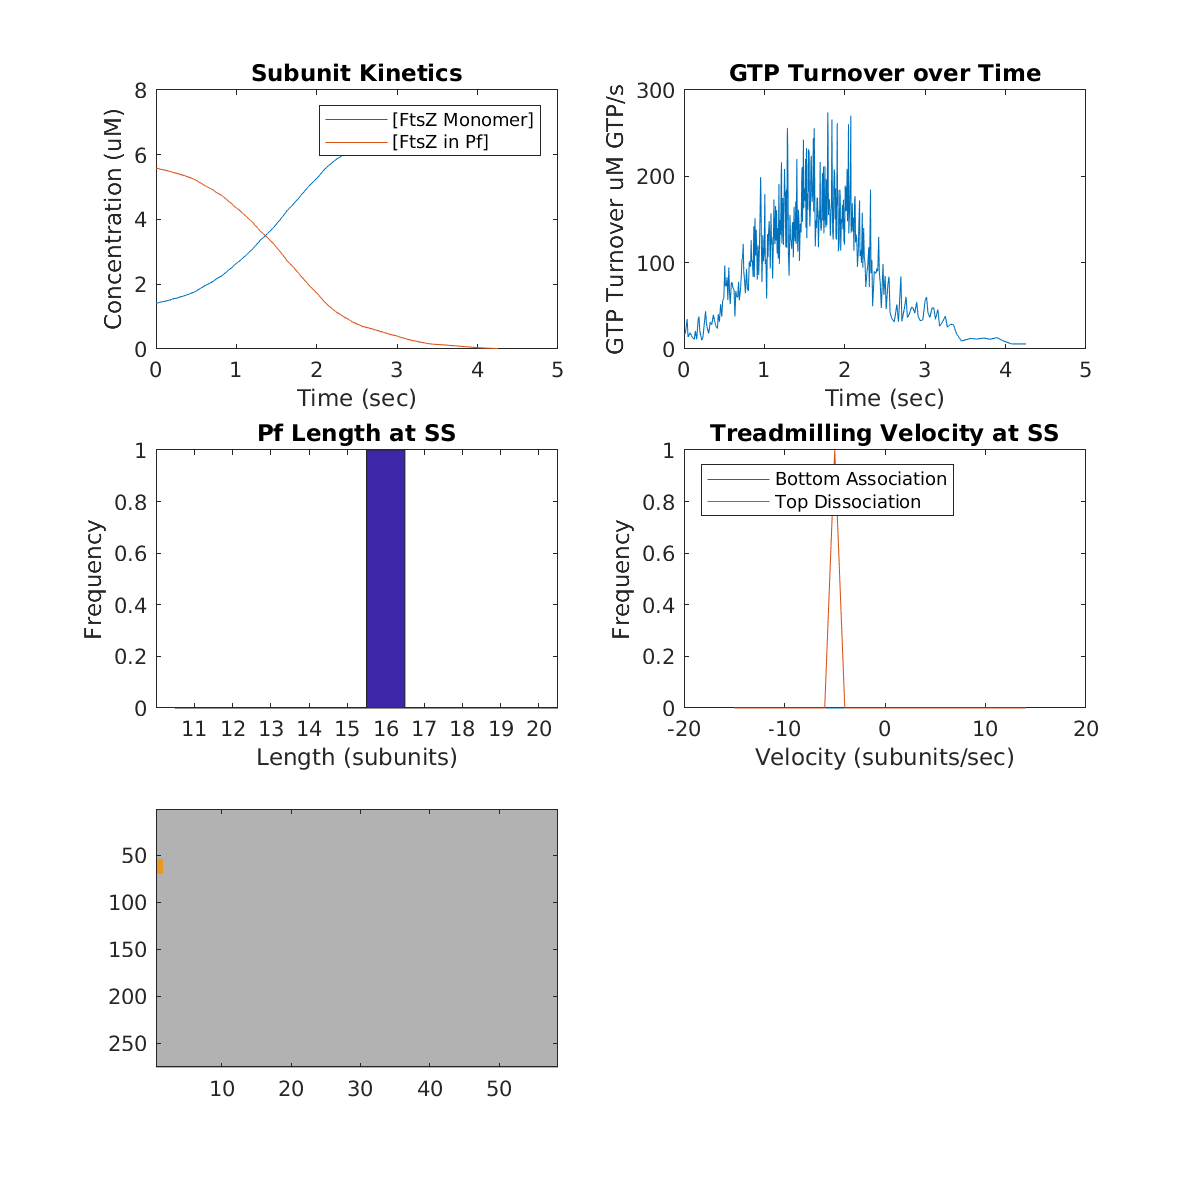
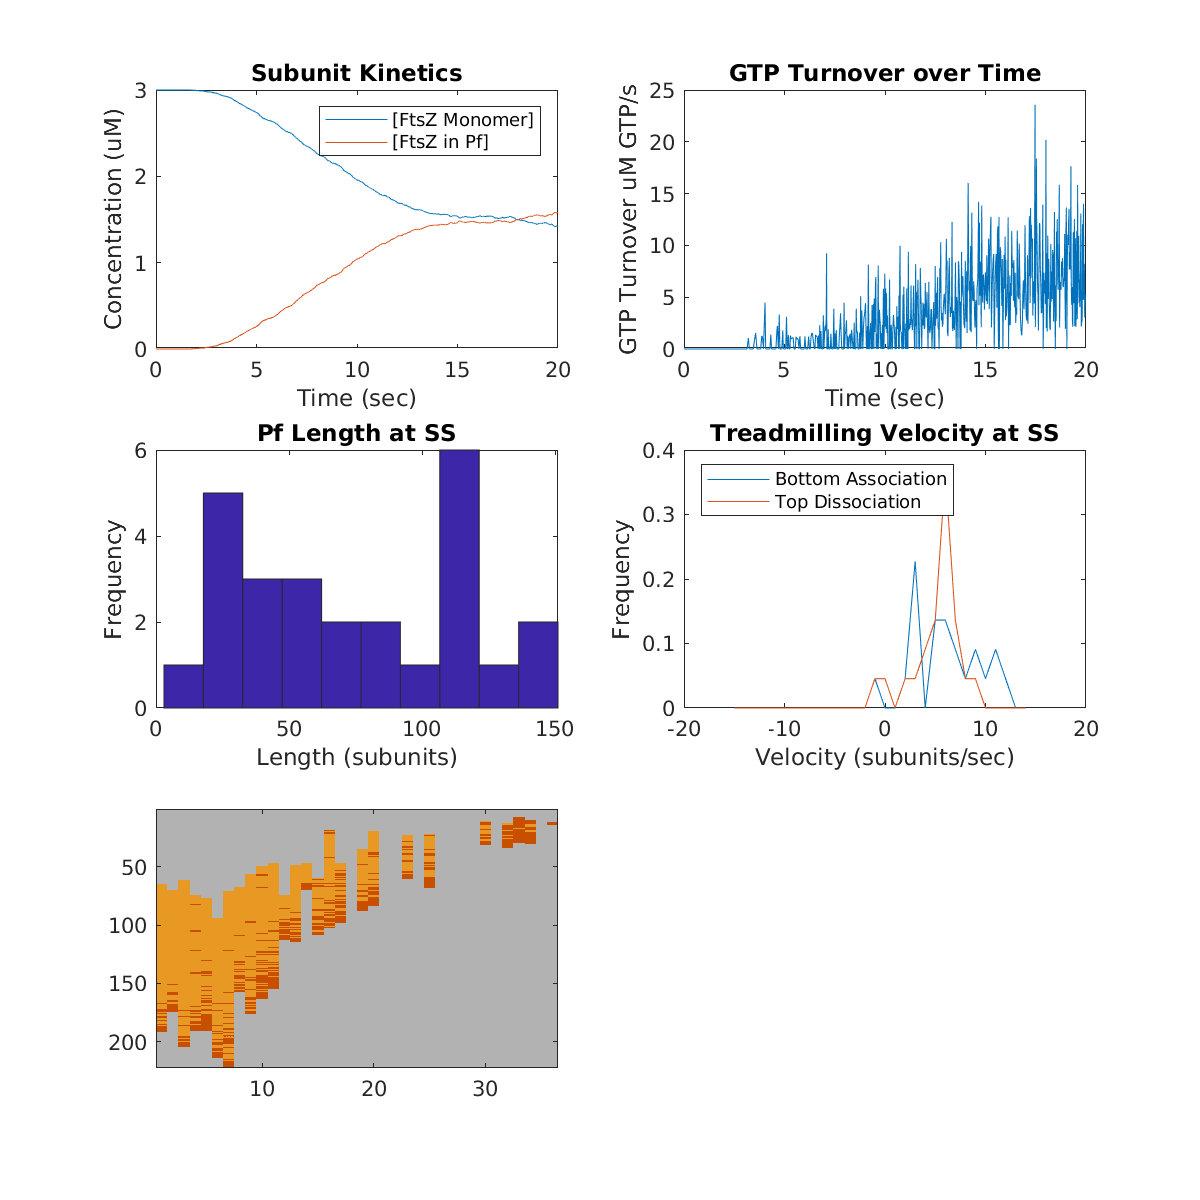
Updated app layout to resize nicely with different monitor dimensions

diff --git a/lib/export/output/resultsTable.html b/lib/export/output/resultsTable.html
@@ -5,22 +5,22 @@
 	</tr>
 	<tr>
 		<td>[Monomer]</td>
-		<td>6.9697</td>
+		<td>1.4198</td>
 	</tr>
 	<tr>
 		<td>Hydrolysis</td>
-		<td>73.094</td>
+		<td>5.2452</td>
 	</tr>
 	<tr>
 		<td>PF Length</td>
-		<td>16</td>
+		<td>73.4615</td>
 	</tr>
 	<tr>
 		<td>Treadmill Velocity</td>
-		<td>-33.6747</td>
+		<td>5.9354</td>
 	</tr>
 	<tr>
 		<td>Proportion GTP in PF</td>
-		<td>0</td>
+		<td>22.4607</td>
 	</tr>
 </table>

diff --git a/lib/export/output/parametersTable1.html b/lib/export/output/parametersTable1.html
@@ -9,7 +9,7 @@
 	</tr>
 	<tr>
 		<td>[FtsZ]</td>
-		<td>7</td>
+		<td>3</td>
 	</tr>
 	<tr>
 		<td>FRET Experiment?</td>
@@ -31,7 +31,7 @@
 	</tr>
 	<tr>
 		<td>GTP Hydrolysis</td>
-		<td>0.5</td>
+		<td>0.4</td>
 	</tr>
 	<tr>
 		<td>Affinity Switch</td>

diff --git a/lib/export/output/parametersTable2.html b/lib/export/output/parametersTable2.html
@@ -15,7 +15,7 @@
 	</tr>
 	<tr>
 		<td>Top Off</td>
-		<td>6</td>
+		<td>7.5</td>
 		<td>0.8</td>
 	</tr>
 	<tr>

diff --git a/lib/app/formatApp.m b/lib/app/formatApp.m
@@ -3,11 +3,11 @@ function app = formatApp(app)
   darkGreen = [53 161 19]./255;
   gray = [50 50 50]./255;
 
-  app.Figure = figure('MenuBar','none','NumberTitle','off','Name','Treadmilling Experiment','Units','pixels','Position',[100, 100, 2000, 1500]);
+  app.Figure = figure('MenuBar','none','NumberTitle','off','Name','Treadmilling Experiment','Units','pixels','Position',[100, 100, 1500, 900]);
   im = imread('ftszDiagram.png');
 
-  %% Model Panel Component
-  app.ModelPanel = uipanel('Parent',app.Figure,'Title','Configure Kinetics','FontSize',14, 'Units', 'pixels', 'Position',[20, 250, 460, 460],'BackgroundColor','w');
+  %% Model Panel Component [2000, 2000, 1500, 1500] [20, 250, 460, 460]
+  app.ModelPanel = uipanel('Parent',app.Figure,'Title','Configure Kinetics','FontSize',14, 'Units', 'normalized', 'Position', [0.02 0.18 0.47 0.8],'BackgroundColor','w');
   % Model Diagram
   app.ModelDiagramAxes = axes('Parent',app.ModelPanel, 'Units', 'normalized', 'Position', [0, 0, 1, 1]);
 
@@ -26,60 +26,27 @@ function app = formatApp(app)
   horFontDisplace = 0;
   
   %%% bottom 
-  leftAlign = 0.05;
-  bottomAlign = 0.15;
-  app.KbOnGtpInput = uicontrol('Parent',app.ModelPanel,'Style','edit','String',app.Kinetics.kbongtp,'Units','normalized','Position',[leftAlign bottomAlign inputWidth height]);
-  text(app.ModelDiagramAxes,'String','\muM^-^1s^-^1','Interpreter','tex','HorizontalAlignment', 'left','VerticalAlignment', 'bottom','Units','normalized','Position',[leftAlign+inputWidth bottomAlign]);
 
-  app.KbOffGtpInput = uicontrol('Parent',app.ModelPanel,'Style','edit','String',app.Kinetics.kboffgtp,'Units','normalized','Position',[leftAlign+rightoffset bottomAlign-loweroffset inputWidth height]);
-  text(app.ModelDiagramAxes,'String','s^-^1','Interpreter','tex','Units','normalized','HorizontalAlignment',  'left','VerticalAlignment', 'bottom','Position',[leftAlign+rightoffset+inputWidth bottomAlign-loweroffset]);
+  addKinetic(app, 'kbongtp', [0.01, 0.14], 2);
+  addKinetic(app, 'kboffgtp', [0.18, 0.08], 1);
 
-
-  leftAlign = 0.5;
-  bottomAlign = 0.15;
-  app.KbOnGdpInput = uicontrol('Parent',app.ModelPanel,'Style','edit','String',app.Kinetics.kbongdp,'Units','normalized','Position',[leftAlign bottomAlign inputWidth height]);
-  text(app.ModelDiagramAxes,'String','\muM^-^1s^-^1','Interpreter','tex','HorizontalAlignment', 'left','VerticalAlignment', 'bottom','Units','normalized','Position',[leftAlign+inputWidth bottomAlign]);
-
-  app.KbOffGdpInput = uicontrol('Parent',app.ModelPanel,'Style','edit','String',app.Kinetics.kboffgdp,'Units','normalized','Position',[leftAlign+rightoffset bottomAlign-loweroffset inputWidth height]);
-  text(app.ModelDiagramAxes,'String','s^-^1','Interpreter','tex','HorizontalAlignment', 'left','VerticalAlignment', 'bottom','Units','normalized','Position',[leftAlign+rightoffset+inputWidth bottomAlign-loweroffset]);
+  addKinetic(app, 'kbongdp', [0.45, 0.14], 2);
+  addKinetic(app, 'kboffgdp', [0.62, 0.08], 1);
 
 
-  leftAlign = 0.6;
-  bottomAlign = 0.65;
-  app.KtOnInput = uicontrol('Parent',app.ModelPanel,'Style','edit','String',app.Kinetics.ktongdp,'Units','normalized','Position',[leftAlign bottomAlign inputWidth height]);
-  text(app.ModelDiagramAxes,'String','\muM^-^1s^-^1','Interpreter','tex','HorizontalAlignment', 'left','VerticalAlignment', 'bottom','Units','normalized','Position',[leftAlign+inputWidth bottomAlign]);
+  addKinetic(app, 'ktongdp', [0.57, 0.65], 2);
+  addKinetic(app, 'ktoffgdp', [0.74, 0.59], 1);
 
-  app.KtOffInput = uicontrol('Parent',app.ModelPanel,'Style','edit','String',app.Kinetics.ktoffgdp,'Units','normalized','Position',[leftAlign+rightoffset bottomAlign-loweroffset inputWidth height]);
-  text(app.ModelDiagramAxes,'String','s^-^1','Interpreter','tex','Units','normalized','HorizontalAlignment', 'left','VerticalAlignment', 'bottom','Position',[leftAlign+rightoffset+inputWidth bottomAlign-loweroffset]);
+  addKinetic(app, 'ktongtp', [0.15, 0.65], 2);
+  addKinetic(app, 'ktoffgtp', [0.32, 0.59], 1);
 
 
-
-  leftAlign = 0.2;
-  bottomAlign = 0.65;
-  app.KtLowOnInput = uicontrol('Parent',app.ModelPanel,'Style','edit','String',app.Kinetics.ktongtp,'Units','normalized','Position',[leftAlign bottomAlign inputWidth height]);
-  text(app.ModelDiagramAxes,'String','\muM^-^1s^-^1','Interpreter','tex','HorizontalAlignment', 'left','VerticalAlignment', 'bottom','Units','normalized','Position',[leftAlign+inputWidth bottomAlign]);
-
-  app.KtLowOffInput = uicontrol('Parent',app.ModelPanel,'Style','edit','String',app.Kinetics.ktoffgtp,'Units','normalized','Position',[leftAlign+rightoffset bottomAlign-loweroffset inputWidth height]);
-  text(app.ModelDiagramAxes,'String','s^-^1','Interpreter','tex','Units','normalized','HorizontalAlignment', 'left','VerticalAlignment', 'bottom','Position',[leftAlign+rightoffset+inputWidth bottomAlign-loweroffset]);
+  addKinetic(app, 'kgdpexchange', [0.18, 0.91], 1);
+  addKinetic(app, 'khyd', [0.43, 0.43], 1);
+  addKinetic(app, 'knuc', [0.35, 0.91], 0);
 
 
-
-  leftAlign = 0.35;
-  bottomAlign = 0.93;
-  app.kswitchInput = uicontrol('Parent',app.ModelPanel,'Style','edit','String',app.Kinetics.kswitch,'Units','normalized','Position',[leftAlign bottomAlign inputWidth*2 height]);
-  text(app.ModelDiagramAxes,'String','X','Interpreter','tex','Units','normalized','HorizontalAlignment', 'left','VerticalAlignment', 'bottom','Position',[leftAlign+inputWidth*2 bottomAlign]);
-
-  leftAlign = 0.2;
-  bottomAlign = 0.93;
-  app.kgdpexchangeInput = uicontrol('Parent',app.ModelPanel,'Style','edit','String',app.Kinetics.kgdpexchange,'Units','normalized','Position',[leftAlign bottomAlign inputWidth height]);
-  text(app.ModelDiagramAxes,'String','s^-^1','Interpreter','tex','Units','normalized','HorizontalAlignment', 'left','VerticalAlignment', 'bottom','Position',[leftAlign+inputWidth bottomAlign]);
-
-
-  leftAlign = 0.45;
-  bottomAlign = 0.45;
-  app.GTPaseInput = uicontrol('Parent',app.ModelPanel,'Style','edit','String',app.Kinetics.indGtpaseRate,'Units','normalized','Position',[leftAlign bottomAlign inputWidth height]);
-  text(app.ModelDiagramAxes,'String','s^-^1','Interpreter','tex','Units','normalized','Position',[leftAlign+inputWidth+horFontDisplace bottomAlign+vertFontDisplace]);
-
+  %set(app.ModelPanel, 'Units', 'normalized');
   %% Input Panel Components
   app.InputPanel = uipanel('Parent',app.Figure,'Title','Configure Experiment','FontSize',14,'Position',[0.02 0.02 0.47 0.15],'BackgroundColor','w');
   app.InputAxes = axes('Parent',app.InputPanel,'Units','normalized','Position',[0 0 1 1]);

diff --git a/lib/app/updateKineticsParameters.m b/lib/app/updateKineticsParameters.m
@@ -1,18 +1,18 @@
 function [app] = updateKineticsParameters(app)
-    app.Kinetics.kbongtp = str2double(app.KbOnGtpInput.String);
-    app.Kinetics.kboffgtp = str2double(app.KbOffGtpInput.String);
+    app.Kinetics.kbongtp = str2double(app.kbongtpInput.String);
+    app.Kinetics.kboffgtp = str2double(app.kboffgtpInput.String);
 
-    app.Kinetics.kbongdp = str2double(app.KbOnGdpInput.String);
-    app.Kinetics.kboffgdp = str2double(app.KbOffGdpInput.String);
+    app.Kinetics.kbongdp = str2double(app.kbongdpInput.String);
+    app.Kinetics.kboffgdp = str2double(app.kboffgdpInput.String);
 
-    app.Kinetics.ktongdp = str2double(app.KtOnInput.String);
-    app.Kinetics.ktoffgdp = str2double(app.KtOffInput.String);
-    app.Kinetics.ktongtp = str2double(app.KtLowOnInput.String);
-    app.Kinetics.ktoffgtp = str2double(app.KtLowOffInput.String);
+    app.Kinetics.ktongdp = str2double(app.ktongdpInput.String);
+    app.Kinetics.ktoffgdp = str2double(app.ktoffgdpInput.String);
+    app.Kinetics.ktongtp = str2double(app.ktongtpInput.String);
+    app.Kinetics.ktoffgtp = str2double(app.ktoffgtpInput.String);
     
-    app.Kinetics.kswitch = str2double(app.kswitchInput.String);
+    app.Kinetics.knuc = str2double(app.knucInput.String);
     app.Kinetics.kgdpexchange = str2double(app.kgdpexchangeInput.String);
-    app.Kinetics.indGtpaseRate = str2double(app.GTPaseInput.String);
+    app.Kinetics.khyd = str2double(app.khydInput.String);
 
     app.Parameters.concTotalFtsZ = str2double(app.ConcFtsZInput.String);
     app.Parameters.totalTime = str2double(app.TimeInput.String);

diff --git a/lib/gillespie/determineTau.m b/lib/gillespie/determineTau.m
@@ -60,12 +60,12 @@ function [allProbs, tau, Subunits] = determineTau(Subunits, allPfs, Kinetics);
   num = 6;
   reactant1(num) = totalGTPinPF;
   reactant2(num) = 1;
-  kinetic(num) = Kinetics.indGtpaseRate;
+  kinetic(num) = Kinetics.khyd;
 
   % Nucleate new PF
   num = 7;
   reactant1(num) = Subunits.monomerNum;
-  reactant2(num) =  Subunits.monomerNum./(1+Kinetics.kswitch); %%%%% CHANGE HERE %%%%%%
+  reactant2(num) =  Subunits.monomerNum./(1+Kinetics.knuc); %%%%% CHANGE HERE %%%%%%
   kinetic(num) = secondOrderConverter(Kinetics.kbongtp);
 
   % Top off PF with GDP penultimate
@@ -95,7 +95,7 @@ function [allProbs, tau, Subunits] = determineTau(Subunits, allPfs, Kinetics);
   % Nucleate new PF with MciZ dimer
   num = 12;
   reactant1(num) = Subunits.capDimerNum;
-  reactant2(num) =  Subunits.monomerNum/(1+Kinetics.kswitch); %%%%% CHANGE HERE %%%%%%
+  reactant2(num) =  Subunits.monomerNum/(1+Kinetics.knuc); %%%%% CHANGE HERE %%%%%%
   kinetic(num) = secondOrderConverter(Kinetics.kcaponpf);
 
   % Bottom off PF GDP
@@ -119,7 +119,7 @@ function [allProbs, tau, Subunits] = determineTau(Subunits, allPfs, Kinetics);
   % Nucleate new PF with MciZ dimer high affinity
   num = 16;
   reactant1(num) = Subunits.monomerNum;
-  reactant2(num) =  Subunits.capDimerNum/(1+Kinetics.kswitch); %%%%% CHANGE HERE %%%%%%
+  reactant2(num) =  Subunits.capDimerNum/(1+Kinetics.knuc); %%%%% CHANGE HERE %%%%%%
   kinetic(num) =  secondOrderConverter(Kinetics.ktongtp);
 
   allProbs = reactant1.*reactant2.*kinetic;

diff --git a/lib/app/addKinetic.m b/lib/app/addKinetic.m
@@ -1,0 +1,18 @@
+function addKinetic(app, kineticName, location, units)
+  inputWidth = 0.16;
+  height = 0.04;
+  labelName = strcat(kineticName, 'Input');
+  kineticPanel = uipanel('Parent',app.ModelPanel, 'BackgroundColor', 'w', 'BorderType', 'none', 'Units', 'normalized', 'Position', [location(1) location(2) inputWidth height]);
+  app.(labelName) = uicontrol('Parent', kineticPanel,'Style','edit','String',app.Kinetics.(kineticName),'Units','normalized','Position',[0, 0, 0.45, 1]);
+  labelAxes = axes('Parent', kineticPanel,  'Units', 'normalized', 'Position', [0.45, 0.05, 0.55, 0.95]);
+  labelAxes.XAxis.Color = 'w';
+  if (units==0)
+    label = ' ';
+  elseif (units==1)
+    label = ' s^-^1';
+  elseif (units==2)
+    label = ' \muM^-^1s^-^1';
+  end
+  text(labelAxes,'String', label,'Interpreter','tex','HorizontalAlignment', 'left','VerticalAlignment', 'bottom','Units','normalized','Position',[0, 0]);
+
+end

diff --git a/RunApp.m b/RunApp.m
@@ -9,19 +9,19 @@ classdef RunApp < handle
         ModelPanel;
         ModelDiagramAxes;
 
-        KbOnGtpInput;
-        KbOffGtpInput;
-        KbOnGdpInput;
-        KbOffGdpInput;
+        kbongtpInput;
+        kboffgtpInput;
+        kbongdpInput;
+        kboffgdpInput;
 
-        KtOnInput;
-        KtOffInput;
-        KtLowOnInput;
-        KtLowOffInput;
+        ktongdpInput;
+        ktoffgdpInput;
+        ktongtpInput;
+        ktoffgtpInput;
         
-        kswitchInput;
+        knucInput;
         kgdpexchangeInput;
-        GTPaseInput;
+        khydInput;
         MixingButton;
         DisassemblyButton;
 

diff --git a/lib/export/parametersTable.m b/lib/export/parametersTable.m
@@ -20,8 +20,8 @@ function parametersTable(Parameters, Kinetics)
 
   kinetics = {{0,'Kinetics'}
               {'GDP Exchange', num2str(Kinetics.kgdpexchange)},
-              {'GTP Hydrolysis', num2str(Kinetics.indGtpaseRate)},
-              {'Affinity Switch', num2str(Kinetics.kswitch)}};
+              {'GTP Hydrolysis', num2str(Kinetics.khyd)},
+              {'Affinity Switch', num2str(Kinetics.knuc)}};
 
 
   f = fopen('lib/export/output/parametersTable1.html', 'w+');

diff --git a/tests/gillespie/determineTau_test.m b/tests/gillespie/determineTau_test.m
@@ -17,9 +17,9 @@ Kinetics.kcapoffpfgdp = 4;
 
 
 
-Kinetics.indGtpaseRate = 0.5;
+Kinetics.khyd = 0.5;
 Kinetics.kgdpexchange= 5;
-Kinetics.kswitch = 5000;
+Kinetics.knuc = 5000;
 
 allPFs = {[1], [2; 3; 1; 2], [2], [1; 2; 5], [1; 4], [4; 5], [0],[],[2; 2; 2; 2; 2; 2], [2; 3; 1; 2; 1],[5], [2; 3; 1; 2; 1; 6], [1; 6], [1; 5]};
 

diff --git a/lib/data/kineticsEcF268C.m b/lib/data/kineticsEcF268C.m
@@ -16,7 +16,7 @@ function Kinetics = kineticsEcF268C()
   Kinetics.kcapoffpf = 3; 
   Kinetics.kcapoffpfgdp = 100;
 
-  Kinetics.indGtpaseRate = 0.2;
+  Kinetics.khyd = 0.2;
   Kinetics.kgdpexchange = 0.4;
-  Kinetics.kswitch = 1000;
+  Kinetics.knuc = 1000;
 end

diff --git a/lib/data/kineticsEcL68W_hmk.m b/lib/data/kineticsEcL68W_hmk.m
@@ -16,7 +16,7 @@ function Kinetics = kineticsEcL68W_hmk()
   Kinetics.kcapoffpf = 0.1; 
   Kinetics.kcapoffpfgdp = 10;
 
-  Kinetics.indGtpaseRate = 0.2;
+  Kinetics.khyd = 0.2;
   Kinetics.kgdpexchange = 0.7;
-  Kinetics.kswitch = 10;
+  Kinetics.knuc = 10;
 end
